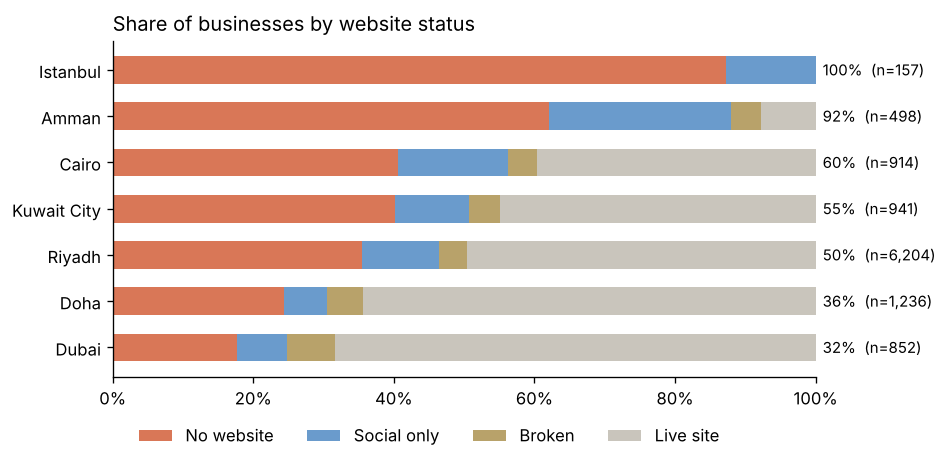
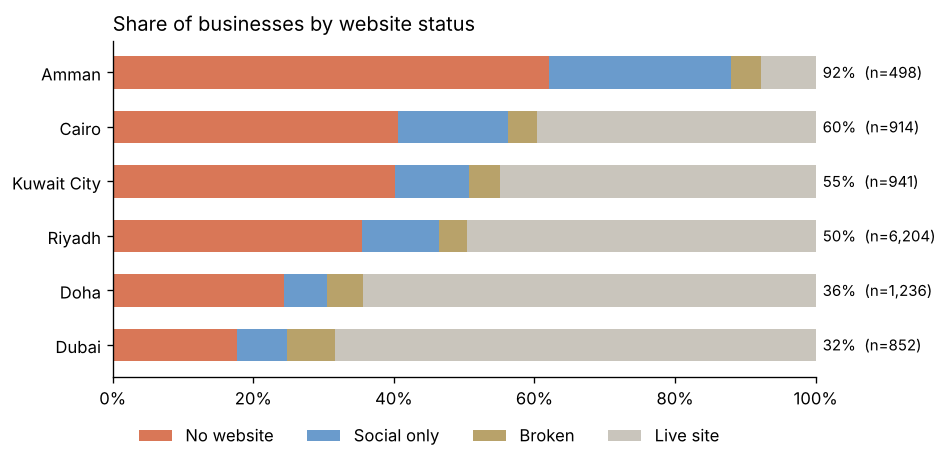
Validate the findings: fix two errors, exclude Istanbul, add confidence intervals
A validation pass recomputed every headline number from data/*.csv.

Fixed
- Sector coverage was stated as about 83% of listings. The 22 sectors hold
  7,886 of 10,802 listings, which is 73%.
- The notebook said Riyadh and Dubai have the smallest gap. Riyadh is in the
  middle at 50%; Dubai (32%) and Doha (36%) are the lowest.

Istanbul
- 0 of 157 Istanbul listings have a live or broken site, so the city shows
  100% offline. That comes from collecting those leads from a search for
  businesses without a website, not from the city. Istanbul stays in the
  totals and is left out of the city comparison and chart.

Quality finding
- "Rated almost the same" now carries its size and uncertainty: 3.3 points,
  95% CI 1.4 to 5.1, so the gap is real but small.
- The 100+ reviews gap (28% vs 38%), which was in the data but not in the
  text, is now reported. Offline businesses are similarly rated but less
  visible.
- The notebook gains a cell computing a 95% interval for every gap.

Checked and correct: 10,802 total, 5,524 (51%) without a working site,
3,851 (36%) with none, Riyadh at 57% of rows, every city row summing to its
total, and the sector ranking.

diff --git a/build_notebook.py b/build_notebook.py
@@ -24,9 +24,13 @@ nb.cells = [
          "print(f'Without a working website: {without:,} ({without/total:.1%})')\n"
          "print(f'No website at all: {summary.set_index(\"status\").loc[\"No website\",\"count\"]:,}')\n"
          "print(f'Priority prospects (no site, 4.5+ stars, 100+ reviews, WhatsApp): {hot[\"count\"].iloc[0]:,}')"),
-    md("## 2. The gap by city\nCollection was heavier in Riyadh (57% of rows), so cities are compared by **share**, not count."),
+    md("## 2. The gap by city\nCollection was heavier in Riyadh (57% of rows), so cities are compared by **share**, not count.\n\n"
+       "**Istanbul is left out of this comparison.** Its 157 listings came from a lead search for businesses *without* a website, "
+       "so 0 of 157 having a live site is how they were collected, not a finding about the city. They still count in the totals."),
     code("cities['without_share'] = (cities.no_website + cities.social_only + cities.broken) / cities.total\n"
-         "c = cities.sort_values('without_share')\n"
+         "# Istanbul was collected from a no-website lead search, so its share is 100% by construction\n"
+         "comparable = cities[cities.city != 'Istanbul']\n"
+         "c = comparable.sort_values('without_share')\n"
          "parts = [('no_website','No website',ACCENT),('social_only','Social only',C2),('broken','Broken',C3),('live','Live site',MUTED)]\n"
          "fig, ax = plt.subplots(figsize=(8, 4))\nleft = pd.Series(0.0, index=c.index)\n"
          "for col, label, color in parts:\n    v = c[col] / c.total\n    ax.barh(c.city, v, left=left, color=color, label=label, height=0.6)\n    left += v\n"
@@ -35,8 +39,8 @@ nb.cells = [
          "ax.set_title('Share of businesses by website status', loc='left')\n"
          "ax.legend(ncol=4, loc='upper center', bbox_to_anchor=(0.45, -0.1), frameon=False)\n"
          "plt.tight_layout(); plt.savefig('images/by_city.png', bbox_inches='tight'); plt.show()\n"
-         "cities[['city','total','without_share']].sort_values('without_share', ascending=False)"),
-    md("## 3. Which sectors need websites most?\n22 largest sectors (about 83% of listings)."),
+         "comparable[['city','total','without_share']].sort_values('without_share', ascending=False)"),
+    md("## 3. Which sectors need websites most?\n22 largest sectors (7,886 listings, 73% of the total)."),
     code("categories['share'] = categories.no_working_site / categories.total\n"
          "s = categories.sort_values('share')\nmed = s.share.median()\n"
          "fig, ax = plt.subplots(figsize=(8, 7))\n"
@@ -60,15 +64,26 @@ nb.cells = [
          "ax.set_title('Share of each group meeting the condition', loc='left'); ax.legend(frameon=False, loc='lower right')\n"
          "plt.tight_layout(); plt.savefig('images/quality.png', bbox_inches='tight'); plt.show()\n"
          "quality[['metric','with_site_%','without_site_%']].round(3)"),
+    md("### Is each gap real, or noise?\nWith about 5,000 businesses in each group, even small gaps can be real. "
+       "A 95% confidence interval on each difference (two-proportion, normal approximation) shows which ones are, and how big."),
+    code("import numpy as np\n"
+         "p1, p2 = quality['with_site_%'], quality['without_site_%']\n"
+         "se = np.sqrt(p1*(1-p1)/quality.with_site_n + p2*(1-p2)/quality.without_site_n)\n"
+         "quality['gap_pts'] = (p1 - p2) * 100\n"
+         "quality['ci_low'] = (p1 - p2 - 1.96*se) * 100\n"
+         "quality['ci_high'] = (p1 - p2 + 1.96*se) * 100\n"
+         "quality[['metric','gap_pts','ci_low','ci_high']].round(1)"),
     md("## Findings\n"
        "1. **About half (51%) of listed businesses have no working website**, and 36% have no website at all.\n"
-       "2. **The gap is widest in Istanbul and Amman**, where almost no listed business has a live site; Riyadh and Dubai are lowest.\n"
-       "3. **Offline does not mean low quality.** Businesses without a site are rated almost the same (56% vs 60% at 4.5+ stars) "
-       "and still draw plenty of reviews. They lean on WhatsApp instead (76% vs 56%).\n"
+       "2. **The gap is widest in Amman (92%)** and narrowest in Dubai (32%) and Doha (36%). Istanbul is excluded because its listings were collected from a no-website lead search.\n"
+       "3. **Offline does not mean low quality, but it does mean less visible.** Ratings are close: 56% vs 60% at 4.5+ stars, "
+       "a real but small gap of 3.3 points (95% CI 1.4 to 5.1). Reviews differ more: 28% vs 38% have 100+ reviews. "
+       "They lean on WhatsApp instead (76% vs 56%) and rarely have Instagram (7% vs 43%).\n"
        "4. **Wedding halls, printing presses and nurseries** have the largest gap; medical labs and accounting offices the smallest.\n"
        "5. **304 priority prospects** combine no website, strong ratings, 100+ reviews and a WhatsApp number to contact.\n\n"
        "**Limitations:** listings come from targeted Google Maps searches, not a random sample of all businesses; "
-       "website status was checked at collection time; city sample sizes differ a lot (Istanbul n=157)."),
+       "website status was checked at collection time; city sample sizes differ a lot; Istanbul's listings came from a no-website lead search, "
+       "so it is excluded from the city comparison; cities may differ in sector mix, which can drive part of the city gap."),
 ]
 nb.metadata["kernelspec"] = {"name": "python3", "display_name": "Python 3", "language": "python"}
 nbf.write(nb, "analysis.ipynb")

diff --git a/README.md b/README.md
@@ -17,7 +17,7 @@ The data comes from Google Maps listings I collected for a website-building outr
 | No website at all | **3,851 (36%)** |
 | Priority prospects (no site, 4.5+ stars, 100+ reviews, WhatsApp) | **304** |
 
-**1. The gap varies a lot by city.** Nearly every listed business in Istanbul and Amman is offline, while Dubai and Doha are around one third.
+**1. The gap varies a lot by city.** 92% of listed businesses in Amman have no working website, against about one third in Dubai (32%) and Doha (36%). Istanbul is left out of this comparison because its listings came from a search for businesses without a website.
 
 ![By city](images/by_city.png)
 
@@ -25,7 +25,7 @@ The data comes from Google Maps listings I collected for a website-building outr
 
 ![By sector](images/by_sector.png)
 
-**3. Offline does not mean low quality.** Businesses without a site are rated almost the same as those with one (56% vs 60% at 4.5+ stars). They rely on WhatsApp instead (76% vs 56%) and rarely have Instagram (7% vs 43%).
+**3. Offline does not mean low quality, but it does mean less visible.** Ratings are close: 56% vs 60% at 4.5+ stars, a real but small gap of 3.3 points (95% CI 1.4 to 5.1). Reviews differ more: 28% vs 38% have 100+ reviews. Offline businesses rely on WhatsApp instead (76% vs 56%) and rarely have Instagram (7% vs 43%).
 
 ![Quality](images/quality.png)
 
@@ -49,9 +49,12 @@ jupyter notebook analysis.ipynb
 
 - "Without a working website" = no website + social-media only + broken site.
 - Listings come from targeted Google Maps searches, not a random sample of every business in each city.
-- Riyadh is 57% of rows, so cities are compared by share, not count. Istanbul has the smallest sample (n=157).
-- Sector results cover the 22 largest sectors (about 83% of listings).
+- Riyadh is 57% of rows, so cities are compared by share, not count.
+- Istanbul's 157 listings came from a lead search for businesses without a website, so 0 live sites there is how they were collected, not a finding. They count in the totals but are excluded from the city comparison.
+- Cities may differ in sector mix, which can drive part of the city gap.
+- Sector results cover the 22 largest sectors (7,886 listings, 73% of the total).
 - Website status reflects the time of collection (October 2026).
+- Gaps between businesses with and without a site are reported with 95% confidence intervals in the notebook (two-proportion, normal approximation).
 
 **Tools:** Python, pandas, matplotlib, Jupyter.
 
